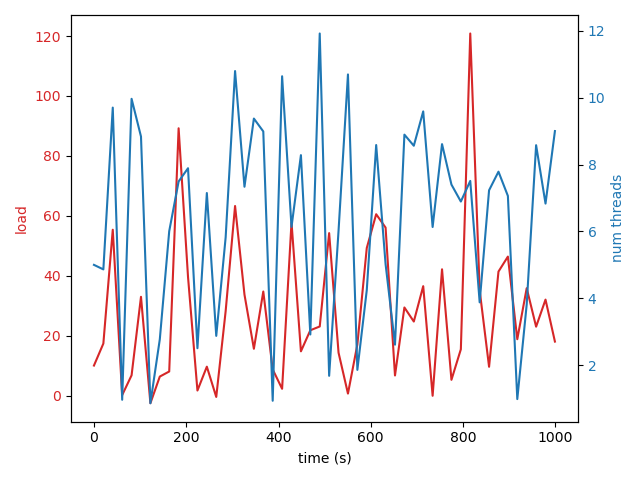
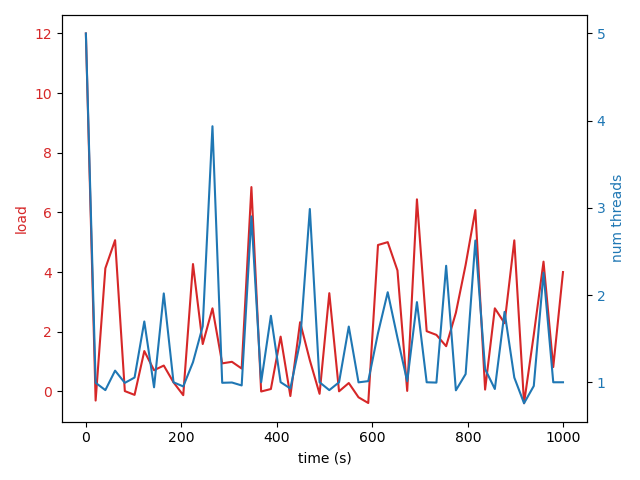
various runs

diff --git a/thread_pool.py b/thread_pool.py
@@ -7,6 +7,9 @@ from scipy.interpolate import make_interp_spline
 
 random.seed(323)
 
+def setpoint(t):
+    return 1.0 # ideal completion rate (all pending jobs should be completed in each cycle)
+
 class ThreadPool(fb.Component):
 
     approx_job_processing_rate_per_interval = 3
@@ -17,7 +20,7 @@ class ThreadPool(fb.Component):
         self.load = 10
 
         self.thread_list = []
-        self.failure_rate_list = []
+        self.rate_list = []
         self.load_list = []
         self.load_randomizer = random.Random()
         self.work_randomizer = random.Random()
@@ -30,7 +33,9 @@ class ThreadPool(fb.Component):
         :param u:
         :return:
         '''
-        self.load += max(self.load_randomizer.randint(-50, 50), 0)
+
+        # Simulate changes in load (incoming jobs)
+        self.load += max(self.load_randomizer.randint(-5, 5), 0)
         self.load_list.append(self.load)
 
         if (self.load == 0):
@@ -38,6 +43,7 @@ class ThreadPool(fb.Component):
             success_rate = 1.0
             completed = 0
         else:
+            # Simulate the thread pool completing jobs
             num_jobs_can_complete = self.threads * __class__.approx_job_processing_rate_per_interval + self.work_randomizer.randint(-1, 1)
             completed = min(self.load, num_jobs_can_complete)
             success_rate = completed/self.load
@@ -48,16 +54,11 @@ class ThreadPool(fb.Component):
         print('thr=', self.threads, 'completed=', completed, 'pending=', self.load,
                   ' success_rate=', round(success_rate, 2), 'perc=', round(percentage_increase_in_threads, 2))
         self.thread_list.append(self.threads)
-        self.failure_rate_list.append(1.0 - success_rate)
+        self.rate_list.append(success_rate)
         return success_rate
 
-# https://stackoverflow.com/questions/10944621/dynamically-updating-plot-in-matplotlib
-# https://matplotlib.org/examples/animation/index.html
-
-def setpoint(t):
-    return 1.0 # ideal completion rate (all pending jobs are completed)
-
 class MyPidController( fb.Component ):
+
     def __init__( self, kp, ki, kd=0 ):
         self.kp, self.ki, self.kd = kp, ki, kd
         self._sum_of_errors = 0
@@ -67,7 +68,7 @@ class MyPidController( fb.Component ):
     def work( self, percentage_jobs_not_completed ):
         '''
         input is failure rate which between [0, 1]
-        output is percentage to increase threads by
+        output is percentage by which to increase or decrease current threads
         :param error:
         :return:
         '''
@@ -117,7 +118,7 @@ def draw1(prefix, t, label1, data1, label2, data2):
     plt.locator_params(axis='x', nbins=10)
 
     fig.tight_layout()  # otherwise the right y-label is slightly clipped
-    # plt.show()
+    #plt.show()
 
     filename = prefix + '_p{}_i{}_d{}.png'.format(k_proportional, k_integral, k_derivative)
     plt.savefig(filename)
@@ -125,13 +126,13 @@ def draw1(prefix, t, label1, data1, label2, data2):
 if __name__ == '__main__':
     fb.DT = 1
     plant = ThreadPool()
-    k_proportional = 0.1
+    k_proportional = 0.9
     k_integral = 0.0
-    k_derivative = 0.3
+    k_derivative = 0.1
     controller = MyPidController(k_proportional, k_integral, k_derivative)  # kp = time to complete one job
     closed_loop(setpoint, controller, plant, 1000)
 
-    data = np.array([plant.failure_rate_list, plant.thread_list, plant.load_list])
+    data = np.array([plant.rate_list, plant.thread_list, plant.load_list])
     print(data.shape)
 
     t = np.arange(0, data.shape[1])
@@ -139,5 +140,5 @@ if __name__ == '__main__':
     data2 = data[1,:]
     data3 = data[2,:]
 
-    draw1('threadpool',t, 'failure_rate', data1, 'num threads', data2)
+    draw1('threadpool',t, 'success_rate', data1, 'num threads', data2)
     draw1('load', t, 'load', data3, 'num threads', data2)
